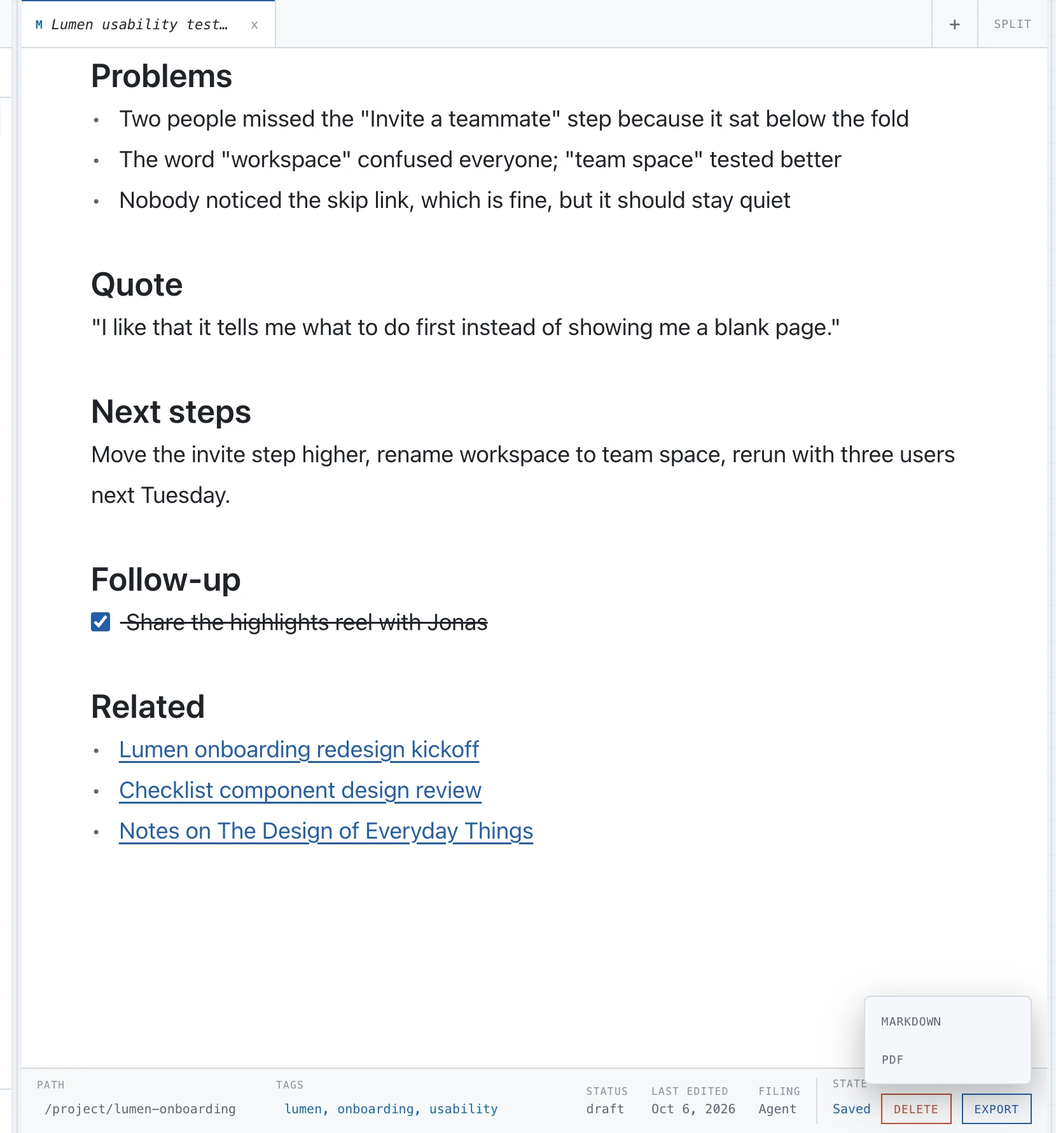
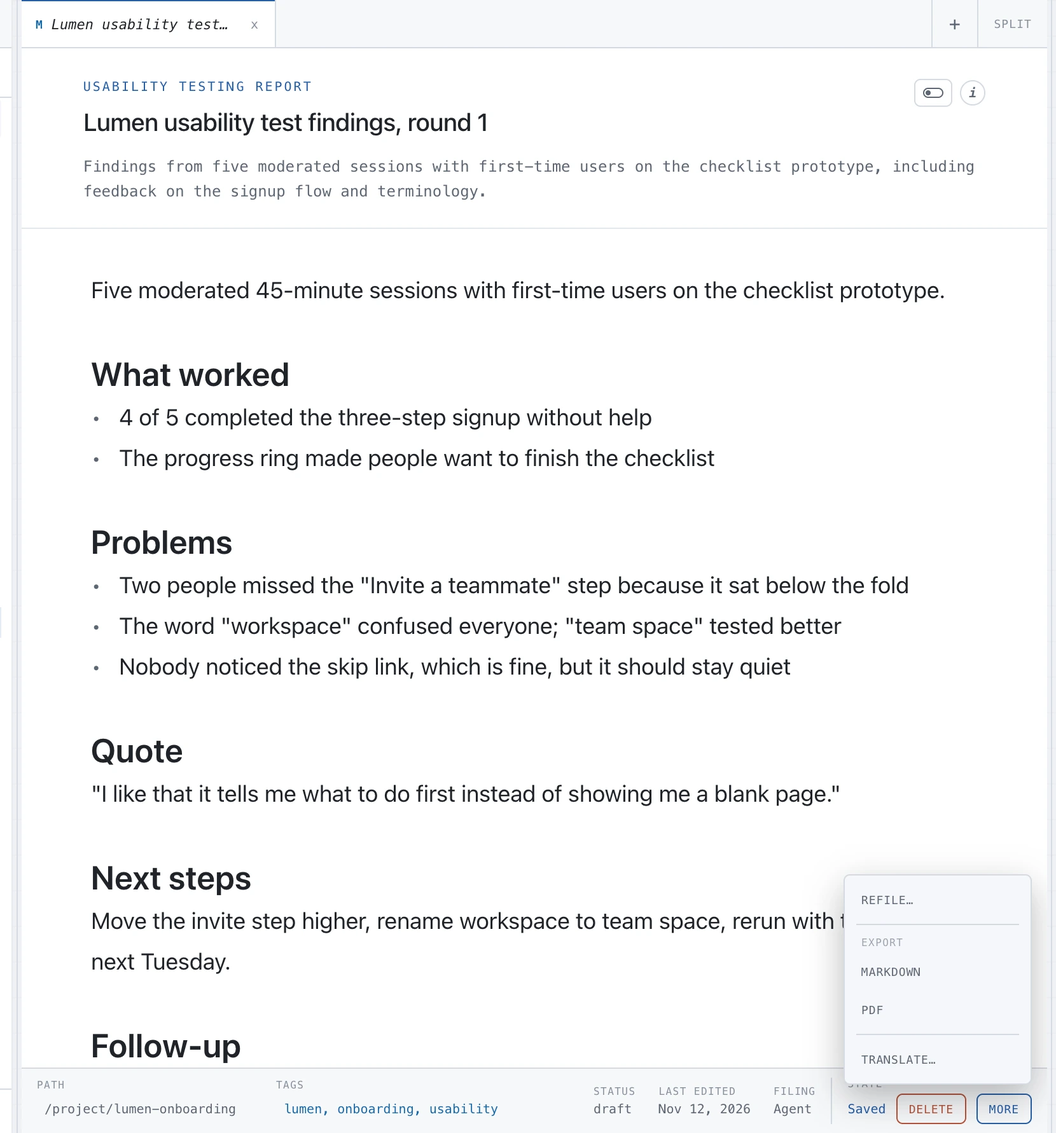
docs(site): showcase 0.11 meetings and image features
Update the light product page for 0.11: meeting recording with on-device
speaker identification, named and mergeable speakers, synced playback,
image descriptions with local vision models, translated export for
drafts, and the current export languages. Regenerate all light
screenshots from the fictional demo bundle, add describe and
multi-speaker transcription capture steps, and make captures light-only
by default.

diff --git a/site/index.html b/site/index.html
@@ -4,7 +4,7 @@
 <meta charset="utf-8">
 <meta name="viewport" content="width=device-width, initial-scale=1">
 <title>FolioNotes — local AI notes for your Mac</title>
-<meta name="description" content="FolioNotes is a local-first Mac notetaker. One capture field, an on-device model files your notes as plain Markdown. Now with OCR for images and note translation, all on your Mac.">
+<meta name="description" content="FolioNotes is a local-first Mac notetaker. One capture field, an on-device model files your notes as plain Markdown. Now with meeting recording, speaker identification, image descriptions, OCR and note translation, all on your Mac.">
 <link rel="canonical" href="https://folionotes.no/">
 <meta name="color-scheme" content="light">
 <meta name="theme-color" content="#fafbfc">
@@ -12,14 +12,14 @@
 <meta property="og:type" content="website">
 <meta property="og:site_name" content="FolioNotes">
 <meta property="og:title" content="FolioNotes — local AI notes for your Mac">
-<meta property="og:description" content="Capture in one field. A local model files it as plain Markdown on your Mac. New: OCR for images and note translation.">
+<meta property="og:description" content="Capture in one field. A local model files it as plain Markdown on your Mac. New: record and transcribe meetings with speaker names, describe images, OCR and translation.">
 <meta property="og:url" content="https://folionotes.no/">
 <meta property="og:image" content="https://folionotes.no/assets/og-image.png">
 <meta property="og:image:width" content="1200">
 <meta property="og:image:height" content="630">
 <meta name="twitter:card" content="summary_large_image">
 <meta name="twitter:title" content="FolioNotes — local AI notes for your Mac">
-<meta name="twitter:description" content="Capture in one field. A local model files it as plain Markdown on your Mac. New: OCR for images and note translation.">
+<meta name="twitter:description" content="Capture in one field. A local model files it as plain Markdown on your Mac. New: record and transcribe meetings with speaker names, describe images, OCR and translation.">
 <meta name="twitter:image" content="https://folionotes.no/assets/og-image.png">
 <link rel="preconnect" href="https://fonts.googleapis.com">
 <link rel="preconnect" href="https://fonts.gstatic.com" crossorigin>
@@ -32,14 +32,14 @@
 <header class="nav">
   <div class="nav-in">
     <a class="nav-brand" href="#top" aria-label="FolioNotes home"><svg class="mark" viewBox="0 0 1024 1024" width="22" height="22" aria-hidden="true"><rect width="1024" height="1024" rx="220" fill="#161816"/><rect x="190" y="190" width="644" height="644" fill="none" stroke="#b7d892" stroke-width="28"/><g transform="translate(85 0) skewX(-8)" fill="none" stroke="#b7d892" stroke-width="46" stroke-linecap="square" stroke-linejoin="miter"><path d="M290 700V330H500M290 510H460"/><path d="M580 700V470M580 545C580 495 615 468 660 468C710 468 740 500 740 552V700"/></g></svg><span>FolioNotes</span></a>
-    <nav aria-label="Primary"><ul><li><a href="#overview">Overview</a></li><li><a href="#new">New in 0.8</a></li><li><a href="#features">Features</a></li><li><a href="#privacy">Privacy</a></li><li><a href="#specs">Requirements</a></li><li><a href="#faq">FAQ</a></li></ul></nav>
+    <nav aria-label="Primary"><ul><li><a href="#overview">Overview</a></li><li><a href="#new">New in 0.11</a></li><li><a href="#features">Features</a></li><li><a href="#privacy">Privacy</a></li><li><a href="#specs">Requirements</a></li><li><a href="#faq">FAQ</a></li></ul></nav>
     <a class="nav-dl" href="https://github.com/magwest1/folio/releases/latest/download/FolioNotes-arm64.dmg">Download</a>
   </div>
 </header>
 <main id="main">
 <section class="hero" id="top">
   <div class="hero-text">
-    <a class="pill" href="#new"><b>New in 0.8</b> OCR and translation</a>
+    <a class="pill" href="#new"><b>New in 0.11</b> Meetings and images</a>
     <h1>Capture once.<br>Your Mac files it.</h1>
     <p class="sub">One Markdown capture field. A model running on your Mac decides where each note goes. Everything stays as plain files in a folder you own.</p>
     <div class="cta"><a class="btn btn-primary" href="https://github.com/magwest1/folio/releases/latest/download/FolioNotes-arm64.dmg"><svg class="ico" viewBox="0 0 24 24" width="18" height="18" fill="none" stroke="currentColor" stroke-width="2" stroke-linecap="round" stroke-linejoin="round" aria-hidden="true"><path d="M12 4v11M7 11l5 5 5-5M5 20h14"/></svg>Download for Mac</a><a class="btn btn-secondary" href="https://github.com/magwest1/folio">View on GitHub<svg class="ico" viewBox="0 0 24 24" width="16" height="16" fill="none" stroke="currentColor" stroke-width="2" stroke-linecap="round" stroke-linejoin="round" aria-hidden="true"><path d="M7 17L17 7M8 7h9v9"/></svg></a></div>
@@ -53,7 +53,7 @@
 <section class="band statement" id="overview" aria-labelledby="st-h">
   <div class="wrap center" id="privacy">
     <h2 id="st-h" class="huge m reveal">Your notes stay<br>on your Mac.</h2>
-    <p class="lead reveal">Filing, search, answers, OCR and translation all run on models stored on your machine. No account, no cloud service, no analytics.</p>
+    <p class="lead reveal">Filing, search, answers, transcription, speaker identification, image descriptions, OCR and translation all run on models stored on your machine. No account, no cloud service, no analytics.</p>
     <dl class="stats reveal">
       <div><dt>accounts</dt><dd>0</dd></div>
       <div><dt>cloud services</dt><dd>0</dd></div>
@@ -69,42 +69,50 @@
 
 <section class="band" id="new" aria-labelledby="new-h">
   <div class="wrap">
-    <div class="new-head reveal"><p class="eyebrow">New in 0.8</p><h2 id="new-h" class="section-h">Read images. Translate notes.</h2></div>
+    <div class="new-head reveal"><p class="eyebrow">New in 0.11</p><h2 id="new-h" class="section-h">Meetings and images, understood on your Mac.</h2></div>
     <div class="pair">
       <article class="card reveal">
-        <h3>Read text in images</h3>
-        <p>Choose Extract text on any image in a note. LightOnOCR 3 1B runs on your Mac through MLX and returns the text for you to copy or insert.</p>
-        <ul class="ticks"><li>Preview first, then Copy or Insert into the note</li><li>Results are cached per image</li><li>Words inside screenshots, scans and whiteboard photos are searchable</li></ul>
-        <p class="fine">LightOnOCR 3 1B, about 2.02 GB, downloaded on request.</p>
-        <img src="assets/screenshots/ocr-crop-light.webp" alt="The OCR preview for an image in a note, with Copy and Insert into note buttons" width="1514" height="1572" loading="lazy" decoding="async">
+        <h3>Record a meeting. Know who said what.</h3>
+        <p>Record the microphone, or in the desktop app also system audio, or import a file. Whisper transcribes on your Mac with a <code>[mm:ss]</code> timestamp on every paragraph.</p>
+        <ul class="ticks"><li>With the optional Sortformer model, up to 4 speakers are identified on-device</li><li>Rename or merge speakers; names are note variables, so every reference follows</li><li>Play the recording back in sync, jump between turns or solo one speaker</li></ul>
+        <p class="fine">Whisper large-v3-turbo about 1.61 GB, Sortformer about 236 MB. Both are optional downloads. System audio needs macOS 14.2 or later.</p>
+        <img src="assets/screenshots/transcription-crop-light.webp" alt="A meeting transcript with named speaker turns beside the player, which shows one lane per speaker, a playhead and speaker chips" width="2248" height="1782" loading="lazy" decoding="async">
       </article>
       <article class="card reveal">
-        <h3>Translate your notes</h3>
-        <p>Turn on auto-translate for a note and read it in Norwegian or English with one toggle. The translated view is read-only and stays current in the background.</p>
-        <ul class="ticks"><li>EN/NO toggle in the note header, instant once translated</li><li>Code, links and formatting are preserved</li><li>Translate and export to English, Norwegian Bokmål, German, Spanish, French, Finnish, Swedish or Danish</li></ul>
-        <p class="fine">Uses your selected local generation model. Nothing leaves the Mac.</p>
-        <img src="assets/screenshots/translate-crop-light.webp" alt="A note with the EN/NO toggle in its header showing a translated, read-only view" width="1600" height="1300" loading="lazy" decoding="async">
+        <h3>See what is in your images.</h3>
+        <p>Choose Describe image in an image toolbar and a local vision model writes a short description for you to copy, insert below the image or use as alt text.</p>
+        <ul class="ticks"><li>Gemma 4 E4B or Qwen 3.5 4B, chosen in Settings &rarr; Models; no extra download if it is already installed</li><li>Descriptions are cached and searchable, like text extracted with LightOnOCR 3 1B</li><li>OCR tables become Markdown tables, and Download image saves the file</li></ul>
+        <p class="fine">Runs through MLX on your Mac. The image never leaves it.</p>
+        <img src="assets/screenshots/describe-crop-light.webp" alt="A whiteboard photo in a note with a generated image description below it and Copy, Insert below, Use as alt text and Close buttons" width="1514" height="1282" loading="lazy" decoding="async">
       </article>
     </div>
   </div>
 </section>
 
+<section class="band alt" id="translate" aria-labelledby="translate-h"><div class="wrap look split flip">
+<div class="look-text reveal"><p class="eyebrow">Translation</p><h2 id="translate-h">Read it in your language.</h2><p>Turn on auto-translate for a note and read it in Norwegian or English with one toggle. The translated view is read-only and stays current in the background.</p><ul class="ticks"><li>Code, links and formatting are preserved</li><li>Translate and export notes and local drafts to English, Norwegian Bokm&aring;l, German, Spanish, French, Italian, Swedish or Danish</li><li>Uses your selected local generation model</li></ul></div>
+<div class="look-media reveal"><img src="assets/screenshots/translate-crop-light.webp" class="wide" alt="A note with the NO/EN toggle in its header showing a translated, read-only English view" width="1600" height="1300" loading="lazy" decoding="async"></div></div></section>
+
 <section class="band alt" id="search" aria-labelledby="search-h"><div class="wrap look split flip">
-<div class="look-text reveal"><p class="eyebrow">Search and Ask</p><h2 id="search-h">Find it, or ask it.</h2><p>Search combines metadata, lifecycle, relationships, keywords and EmbeddingGemma embeddings, including the text inside your images. It never loads the larger answer model.</p><p>Ask uses the model you selected to write a grounded answer with links to the notes it cites.</p></div>
+<div class="look-text reveal"><p class="eyebrow">Search and Ask</p><h2 id="search-h">Find it, or ask it.</h2><p>Search combines metadata, lifecycle, relationships, keywords and EmbeddingGemma embeddings, including text extracted from and descriptions of your images. It never loads the larger answer model.</p><p>Ask uses the model you selected to write a grounded answer with links to the notes it cites.</p></div>
 <div class="look-media reveal"><div class="duo"><img src="assets/screenshots/search-pane-light.webp" alt="Hybrid search results across notes" width="618" height="1706" loading="lazy" decoding="async"><img src="assets/screenshots/ask-pane-light.webp" alt="An Ask answer with citations linking to local notes" width="618" height="1706" loading="lazy" decoding="async"></div></div></div></section>
 
 <section class="band" id="features" aria-labelledby="feat-h">
   <div class="wrap">
     <h2 id="feat-h" class="section-h reveal">And everything around it.</h2>
     <ul class="more compact reveal">
-      <li><h3>Transcripts</h3><p>Import AAC, AIFF, FLAC, M4A, MP3 or WAV. Whisper large-v3-turbo transcribes on your Mac into an editable note.</p></li>
+      <li><h3>Record meetings</h3><p>Microphone, or in the desktop app also system audio on macOS 14.2 or later, for online calls. Import AAC, AIFF, FLAC, M4A, MP3 or WAV too.</p></li>
+      <li><h3>Timestamped transcripts</h3><p>Whisper large-v3-turbo writes an editable note. Playback follows the <code>[mm:ss]</code> timestamps.</p></li>
+      <li><h3>Note variables</h3><p>Define <code>key:: value</code> once and reuse <code>{{key}}</code> in the note, search and exports. Speaker names work this way.</p></li>
+      <li><h3>Image tools</h3><p>Extract text, describe, copy and download from the image toolbar. Tables from OCR become Markdown.</p></li>
       <li><h3>Version history</h3><p>Every note keeps earlier versions you can restore. Refiling keeps the history.</p></li>
       <li><h3>Links and backlinks</h3><p>Indexed from Markdown links and sources. Related notes become links only when you confirm.</p></li>
       <li><h3>Small local models</h3><p>Qwen 3.5 4B, Llama 3.2 3B Instruct or Gemma 4 E4B through MLX, plus EmbeddingGemma for search.</p></li>
-      <li><h3>Markdown and PDF export</h3><p>Export filed notes and local drafts.</p></li>
+      <li><h3>Markdown and PDF export</h3><p>Export filed notes and local drafts, optionally translated.</p></li>
       <li><h3>Lifecycle states</h3><p>Draft, stable or deprecated, with a stale-after date.</p></li>
       <li><h3>Multiple bundles</h3><p>Separate note collections, switchable in Settings. Back up from Settings or copy the folder.</p></li>
       <li><h3>Familiar shortcuts</h3><p>Cmd+B, Cmd+I, Cmd+K, Cmd+Shift+F and more. Click a tag to filter exactly.</p></li>
+      <li><h3>Open storage</h3><p>Plain Markdown with frontmatter in a folder you own. Any editor or agent can read it.</p></li>
     </ul>
   </div>
 </section>
@@ -114,17 +122,19 @@
 <div class="look-media reveal"><div class="code-wrap"><div class="code-label"><span>A real filed note</span><span>Markdown + OKF frontmatter</span></div><pre class="code" tabindex="0"><code>---
 type: Usability Testing Report
 title: Lumen usability test findings, round 1
-description: Findings from five moderated sessions on the checklist prototype.
+description: Findings from five moderated sessions with first-time users on the checklist prototype, including feedback on the signup flow and terminology.
+language: en
 tags:
   - lumen
   - onboarding
+  - usability
 status: draft
 filing:
   by: okf-notetaker/mlx-community/gemma-4-e4b-it-4bit
-  at: 2026-10-06T20:07:48.109Z
+  at: 2026-11-12T07:02:07.917Z
 sources:
   - id: raw-capture
-    resource: /references/inbox/20261006T200748Z-lumen-usability-test-findings-round-1-e675.md
+    resource: /references/inbox/20261112T070207Z-lumen-usability-test-findings-round-1-f6cb.md
     title: Raw inbox capture
 ---
 
@@ -134,7 +144,7 @@ sources:
 - 4 of 5 completed the three-step signup without help
 
 ## Related
-- [Checklist component design review](/project/lumen-onboarding/checklist-component-states-design-review-2026-10-06.md)</code></pre></div></div></div></section>
+- [Lumen onboarding redesign kickoff](/project/lumen-onboarding/lumen-onboarding-redesign-kickoff-meeting-notes-2026-11-12.md)</code></pre></div></div></div></section>
 
 <section class="band" id="gallery" aria-labelledby="gal-h">
   <div class="wrap">
@@ -142,17 +152,17 @@ sources:
     <div class="gal-btns"><button type="button" class="arrow" data-dir="-1" aria-label="Previous screenshots"><svg viewBox="0 0 24 24" width="18" height="18" fill="none" stroke="currentColor" stroke-width="2.2" stroke-linecap="round" stroke-linejoin="round" aria-hidden="true"><path d="M15 5l-7 7 7 7"/></svg></button><button type="button" class="arrow" data-dir="1" aria-label="Next screenshots"><svg viewBox="0 0 24 24" width="18" height="18" fill="none" stroke="currentColor" stroke-width="2.2" stroke-linecap="round" stroke-linejoin="round" aria-hidden="true"><path d="M9 5l7 7-7 7"/></svg></button></div></div>
   </div>
   <div class="gallery" id="gallery-strip" role="region" aria-label="Screenshot gallery" tabindex="0"><ul>
-<li class="slide" tabindex="-1"><figure><img src="assets/screenshots/capture-filing-light.webp" alt="FolioNotes: Capture and file" width="2880" height="1782" loading="lazy" decoding="async"><figcaption>Capture and file</figcaption></figure></li><li class="slide" tabindex="-1"><figure><img src="assets/screenshots/translate-light.webp" alt="FolioNotes: Translate" width="2880" height="1782" loading="lazy" decoding="async"><figcaption>Translate</figcaption></figure></li><li class="slide" tabindex="-1"><figure><img src="assets/screenshots/ocr-light.webp" alt="FolioNotes: Extract text" width="2880" height="1782" loading="lazy" decoding="async"><figcaption>Extract text</figcaption></figure></li><li class="slide" tabindex="-1"><figure><img src="assets/screenshots/search-light.webp" alt="FolioNotes: Search" width="2880" height="1782" loading="lazy" decoding="async"><figcaption>Search</figcaption></figure></li><li class="slide" tabindex="-1"><figure><img src="assets/screenshots/ask-light.webp" alt="FolioNotes: Ask" width="2880" height="1782" loading="lazy" decoding="async"><figcaption>Ask</figcaption></figure></li><li class="slide" tabindex="-1"><figure><img src="assets/screenshots/transcription-light.webp" alt="FolioNotes: Transcription" width="2880" height="1782" loading="lazy" decoding="async"><figcaption>Transcription</figcaption></figure></li><li class="slide" tabindex="-1"><figure><img src="assets/screenshots/history-light.webp" alt="FolioNotes: History" width="2880" height="1782" loading="lazy" decoding="async"><figcaption>History</figcaption></figure></li><li class="slide" tabindex="-1"><figure><img src="assets/screenshots/links-light.webp" alt="FolioNotes: Links" width="2880" height="1782" loading="lazy" decoding="async"><figcaption>Links</figcaption></figure></li></ul></div>
+<li class="slide" tabindex="-1"><figure><img src="assets/screenshots/transcription-light.webp" alt="FolioNotes: Transcription with speakers and playback" width="2880" height="1782" loading="lazy" decoding="async"><figcaption>Meeting transcript with speakers</figcaption></figure></li><li class="slide" tabindex="-1"><figure><img src="assets/screenshots/describe-light.webp" alt="FolioNotes: A generated image description under a whiteboard photo in a note" width="2880" height="1782" loading="lazy" decoding="async"><figcaption>Describe image</figcaption></figure></li><li class="slide" tabindex="-1"><figure><img src="assets/screenshots/ocr-light.webp" alt="FolioNotes: Extracted text from a recipe card photo shown under the image" width="2880" height="1782" loading="lazy" decoding="async"><figcaption>Extract text</figcaption></figure></li><li class="slide" tabindex="-1"><figure><img src="assets/screenshots/translate-light.webp" alt="FolioNotes: A Norwegian note shown in its English translation" width="2880" height="1782" loading="lazy" decoding="async"><figcaption>Translate</figcaption></figure></li><li class="slide" tabindex="-1"><figure><img src="assets/screenshots/capture-filing-light.webp" alt="FolioNotes: The filing dialog proposing a path, title and tags over a captured note" width="2880" height="1782" loading="lazy" decoding="async"><figcaption>Capture and file</figcaption></figure></li><li class="slide" tabindex="-1"><figure><img src="assets/screenshots/search-light.webp" alt="FolioNotes: Hybrid search results beside a note" width="2880" height="1782" loading="lazy" decoding="async"><figcaption>Search</figcaption></figure></li><li class="slide" tabindex="-1"><figure><img src="assets/screenshots/ask-light.webp" alt="FolioNotes: An Ask answer with links to the notes it cites" width="2880" height="1782" loading="lazy" decoding="async"><figcaption>Ask</figcaption></figure></li><li class="slide" tabindex="-1"><figure><img src="assets/screenshots/history-light.webp" alt="FolioNotes: Version history of a note with restore controls" width="2880" height="1782" loading="lazy" decoding="async"><figcaption>History</figcaption></figure></li><li class="slide" tabindex="-1"><figure><img src="assets/screenshots/links-light.webp" alt="FolioNotes: A note with a Related section of links to other notes" width="2880" height="1782" loading="lazy" decoding="async"><figcaption>Links</figcaption></figure></li></ul></div>
 </section>
 
 <div class="band alt"><div class="wrap cols">
   <section id="specs" aria-labelledby="req-h">
     <h2 id="req-h" class="section-h left reveal">Requirements</h2>
-    <dl class="specs reveal"><div><dt>Mac</dt><dd>Apple Silicon (M1 or later), macOS 14 Sonoma or newer</dd></div><div><dt>Generation</dt><dd>Qwen 3.5 4B, Llama 3.2 3B Instruct or Gemma 4 E4B, run with MLX. Also used for translation.</dd></div><div><dt>Search</dt><dd>EmbeddingGemma</dd></div><div><dt>Transcription</dt><dd>Whisper large-v3-turbo. Imports AAC, AIFF, FLAC, M4A, MP3 and WAV.</dd></div><div><dt>OCR</dt><dd>LightOnOCR 3 1B for text in images</dd></div><div><dt>Disk space</dt><dd>Models are optional downloads: generation 1.81–5.18 GB, EmbeddingGemma about 212 MB, Whisper about 1.61 GB, LightOnOCR about 2.02 GB.</dd></div><div><dt>Storage</dt><dd>Plain Markdown with OKF frontmatter in <code>~/Documents/Folio</code></dd></div><div><dt>Distribution</dt><dd>Open source under the MIT License. Signed with a Developer ID, notarized by Apple, and updated automatically.</dd></div></dl>
+    <dl class="specs reveal"><div><dt>Mac</dt><dd>Apple Silicon (M1 or later), macOS 14 Sonoma or newer</dd></div><div><dt>Generation</dt><dd>Qwen 3.5 4B, Llama 3.2 3B Instruct or Gemma 4 E4B, run with MLX. Also used for translation and image descriptions.</dd></div><div><dt>Search</dt><dd>EmbeddingGemma</dd></div><div><dt>Transcription</dt><dd>Whisper large-v3-turbo. Imports AAC, AIFF, FLAC, M4A, MP3 and WAV, or records the microphone. System audio recording needs the desktop app on macOS 14.2 or later.</dd></div><div><dt>Speakers</dt><dd>Optional Sortformer model identifies up to 4 speakers on-device.</dd></div><div><dt>Images</dt><dd>LightOnOCR 3 1B extracts text. Gemma 4 E4B or Qwen 3.5 4B describe images; they reuse the generation model download.</dd></div><div><dt>Disk space</dt><dd>Models are optional downloads: generation 1.81–5.18 GB, EmbeddingGemma about 212 MB, Whisper about 1.61 GB, Sortformer about 236 MB, LightOnOCR about 2.02 GB.</dd></div><div><dt>Storage</dt><dd>Plain Markdown with OKF frontmatter in <code>~/Documents/Folio</code></dd></div><div><dt>Distribution</dt><dd>Open source under the MIT License. Signed with a Developer ID, notarized by Apple, and updated automatically.</dd></div></dl>
   </section>
   <section id="faq" aria-labelledby="faq-h">
     <h2 id="faq-h" class="section-h left reveal">Questions.</h2>
-    <div class="faq reveal"><details><summary>Which languages can it translate?</summary><p>The live translated view works between Norwegian and English. Translate and export supports English, Norwegian Bokmål, German, Spanish, French, Finnish, Swedish and Danish.</p></details><details><summary>Does it work on Intel, Windows or Linux?</summary><p>No. FolioNotes runs its models with MLX, which requires a Mac with Apple Silicon (M1 or later).</p></details><details><summary>Where are my notes stored?</summary><p>In <code>~/Documents/Folio</code>, as Markdown files with OKF frontmatter, along with the search index. Open the folder in Finder or any editor.</p></details><details><summary>Can I take my notes with me?</summary><p>Yes. Your notes are plain Markdown in an open format, so you can copy the folder, open it in another tool, or point an AI agent at it.</p></details><details><summary>Is it free, and how do updates work?</summary><p>It is free and open source under the MIT License. The app checks GitHub Releases and installs signed updates, or you can download the latest version from the Releases page.</p></details></div>
+    <div class="faq reveal"><details><summary>Which languages can it translate?</summary><p>The live translated view works between Norwegian and English. Translate and export, for filed notes and local drafts, supports English, Norwegian Bokmål, German, Spanish, French, Italian, Swedish and Danish.</p></details><details><summary>Can it record a meeting and tell who is speaking?</summary><p>Yes. The desktop app records the microphone, and on macOS 14.2 or later also system audio, so a call on headphones is captured on both sides. Whisper transcribes it on your Mac. With the optional Sortformer model installed, up to four speakers are labeled; you can rename or merge them and play the recording back in sync with the transcript. Audio stays on your Mac.</p></details><details><summary>Does it work on Intel, Windows or Linux?</summary><p>No. FolioNotes runs its models with MLX, which requires a Mac with Apple Silicon (M1 or later).</p></details><details><summary>Where are my notes stored?</summary><p>In <code>~/Documents/Folio</code>, as Markdown files with OKF frontmatter, along with the search index. Open the folder in Finder or any editor.</p></details><details><summary>Can I take my notes with me?</summary><p>Yes. Your notes are plain Markdown in an open format, so you can copy the folder, open it in another tool, or point an AI agent at it.</p></details><details><summary>Is it free, and how do updates work?</summary><p>It is free and open source under the MIT License. The app checks GitHub Releases and installs signed updates, or you can download the latest version from the Releases page.</p></details></div>
   </section>
 </div></div>
 

diff --git a/site/styles.css b/site/styles.css
@@ -237,3 +237,7 @@ h1,h2,h3{text-wrap:balance;margin:0;font-family:var(--display);font-weight:600;c
 }
 .card img{aspect-ratio:1514/1300;object-fit:cover;object-position:top}
 .hero .pill{margin:0 auto 4px}
+
+/* v0.11: cards with differently shaped screenshots; translation split uses a wider crop */
+.card img{aspect-ratio:auto;object-fit:initial}
+.look.split .look-media img.wide{max-width:min(100%,620px)}

diff --git a/site/assets/screenshots/okf-note.md b/site/assets/screenshots/okf-note.md
@@ -1,7 +1,8 @@
 ---
 type: Usability Testing Report
 title: Lumen usability test findings, round 1
-description: Findings from five moderated sessions on the checklist prototype, indicating success with the signup flow but issues with step placement and terminology.
+description: Findings from five moderated sessions with first-time users on the checklist prototype, including feedback on the signup flow and terminology.
+language: en
 tags: &a1
   - lumen
   - onboarding
@@ -9,16 +10,16 @@ tags: &a1
 status: draft
 generated:
   by: human:local
-  at: 2026-10-06T20:14:33.701Z
+  at: 2026-11-12T07:09:36.670Z
 filing:
   by: okf-notetaker/mlx-community/gemma-4-e4b-it-4bit
-  at: 2026-10-06T20:07:48.109Z
+  at: 2026-11-12T07:02:07.917Z
 sources:
   - id: raw-capture
-    resource: /references/inbox/20261006T200748Z-lumen-usability-test-findings-round-1-e675.md
+    resource: /references/inbox/20261112T070207Z-lumen-usability-test-findings-round-1-f6cb.md
     title: Raw inbox capture
     author: human:local
-    capture_id: confirmation:0903013b84f0bb8bcfd9ea6c
+    capture_id: confirmation:79f7436643a7ea2f79cb5045
     filing_by: okf-notetaker/mlx-community/gemma-4-e4b-it-4bit
     capture_content: |-
       Lumen usability test findings, round 1
@@ -40,33 +41,33 @@ sources:
       ## Next steps
       Move the invite step higher, rename workspace to team space, rerun with three users.
     confirmation:
-      id: confirmation:0903013b84f0bb8bcfd9ea6c
+      id: confirmation:79f7436643a7ea2f79cb5045
       draftId: null
       mode: new
-      destinationId: /project/lumen-onboarding/lumen-usability-test-findings-round-1-2026-10-06.md
+      destinationId: /project/lumen-onboarding/lumen-usability-test-findings-round-1-2026-11-12.md
       destination:
-        id: /project/lumen-onboarding/lumen-usability-test-findings-round-1-2026-10-06.md
+        id: /project/lumen-onboarding/lumen-usability-test-findings-round-1-2026-11-12.md
         directory: /project/lumen-onboarding
-        filename: lumen-usability-test-findings-round-1-2026-10-06.md
+        filename: lumen-usability-test-findings-round-1-2026-11-12.md
       actor: okf-notetaker/mlx-community/gemma-4-e4b-it-4bit
       proposal:
         directory: /project/lumen-onboarding
-        filename: lumen-usability-test-findings-round-1-2026-10-06.md
+        filename: lumen-usability-test-findings-round-1-2026-11-12.md
         title: Lumen usability test findings, round 1
-        description: Findings from five moderated sessions on the checklist prototype, indicating success with the signup flow but issues with step placement and terminology.
+        description: Findings from five moderated sessions with first-time users on the checklist prototype, including feedback on the signup flow and terminology.
         tags:
           - lumen
           - onboarding
           - usability
-      finalId: /project/lumen-onboarding/lumen-usability-test-findings-round-1-2026-10-06.md
+      finalId: /project/lumen-onboarding/lumen-usability-test-findings-round-1-2026-11-12.md
       finalFields:
         directory: /project/lumen-onboarding
-        filename: lumen-usability-test-findings-round-1-2026-10-06.md
+        filename: lumen-usability-test-findings-round-1-2026-11-12.md
         title: Lumen usability test findings, round 1
-        description: Findings from five moderated sessions on the checklist prototype, indicating success with the signup flow but issues with step placement and terminology.
+        description: Findings from five moderated sessions with first-time users on the checklist prototype, including feedback on the signup flow and terminology.
         tags: *a1
-      confirmedAt: 2026-10-06T20:08:01.674Z
-      oldId: /project/lumen-onboarding/lumen-usability-test-findings-round-1-2026-10-06.md
+      confirmedAt: 2026-11-12T07:02:21.536Z
+      oldId: /project/lumen-onboarding/lumen-usability-test-findings-round-1-2026-11-12.md
 ---
 
 # Captured note
@@ -92,6 +93,6 @@ Move the invite step higher, rename workspace to team space, rerun with three us
 - [x] Share the highlights reel with Jonas
 
 ## Related
-- [Lumen onboarding redesign kickoff](/project/lumen-onboarding/lumen-onboarding-redesign-kickoff-meeting-notes-2026-10-06.md)
-- [Checklist component design review](/project/lumen-onboarding/checklist-component-states-design-review-2026-10-06.md)
-- [Notes on The Design of Everyday Things](/design-theory/reading-notes-the-design-of-everyday-things-don-norman-2026-10-06.md)
+- [Lumen onboarding redesign kickoff](/project/lumen-onboarding/lumen-onboarding-redesign-kickoff-meeting-notes-2026-11-12.md)
+- [Checklist component design review](/project/lumen-onboarding/checklist-component-states-design-review-2026-11-12.md)
+- [Notes on The Design of Everyday Things](/design-theory/reading-notes-the-design-of-everyday-things-don-norman-2026-11-12.md)
